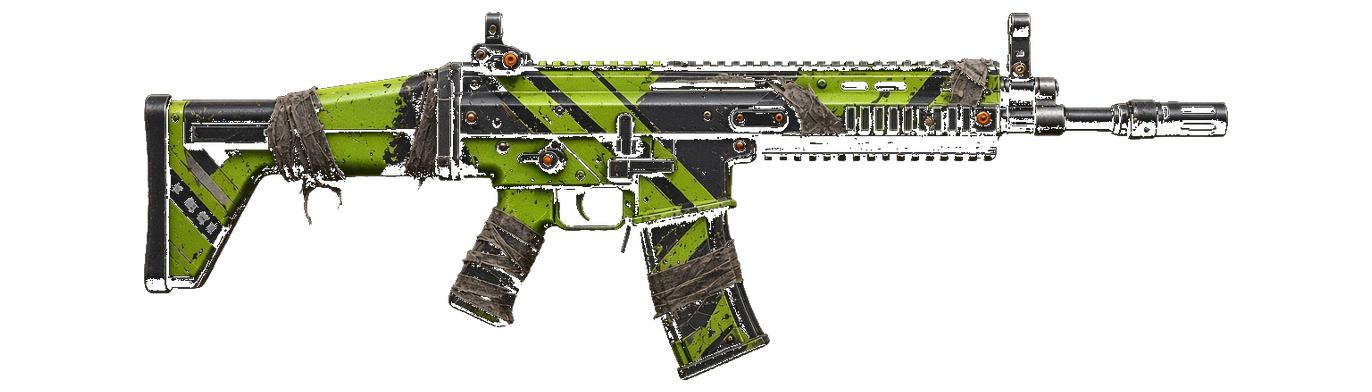
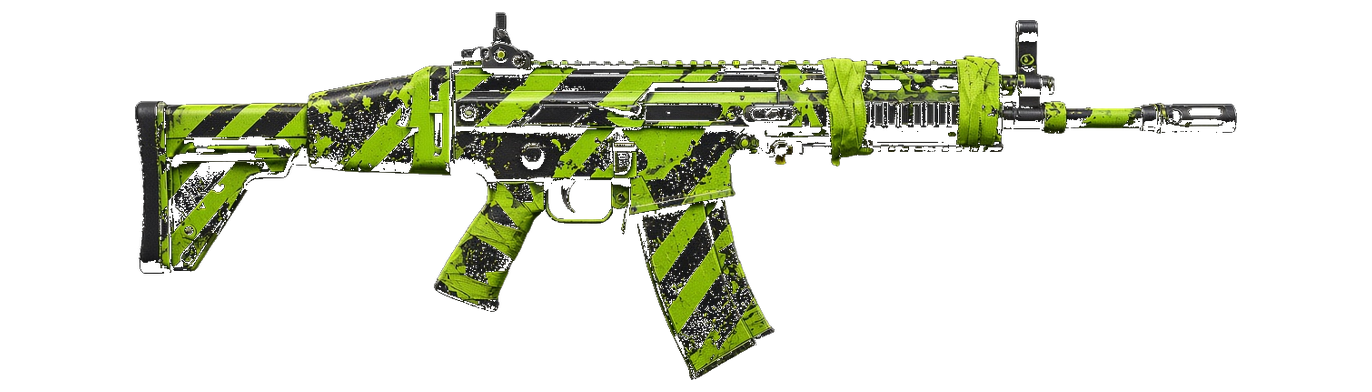
Use distinct Squad ARs per faction with static colored behind-glow.

Changed region(s): [[0.0918, 0.0306, 0.9184, 0.9796]]

diff --git a/src/app/globals.css b/src/app/globals.css
@@ -1840,7 +1840,7 @@ body:has(.tm-sapper-page) {
     background-position: 100% 50%;
   }
 }
-/* B$ фракционные нашивки — тонкий фиолетовый rim, без размытия рисунка */
+/* B$ faction patches: static behind-glow, faction color, no flicker */
 .nick-patch-mark[data-patch-id="bd-faction-legion-ak74"],
 .nick-patch-mark[data-patch-id="bd-faction-orda-m4a1"],
 .nick-patch-mark[data-patch-id="bd-faction-sbord-scar"],
@@ -1848,6 +1848,42 @@ body:has(.tm-sapper-page) {
 .nick-patch-mark[data-patch-id="bd-faction-tabor-m4"],
 .nick-patch-mark[data-patch-id="bd-faction-uley-pkm"] {
   width: 132px;
+  position: relative;
+  isolation: isolate;
+  overflow: visible;
+}
+.nick-patch-mark[data-patch-id="bd-faction-legion-ak74"]::before,
+.nick-patch-mark[data-patch-id="bd-faction-orda-m4a1"]::before,
+.nick-patch-mark[data-patch-id="bd-faction-sbord-scar"]::before,
+.nick-patch-mark[data-patch-id="bd-faction-staya-svd"]::before,
+.nick-patch-mark[data-patch-id="bd-faction-tabor-m4"]::before,
+.nick-patch-mark[data-patch-id="bd-faction-uley-pkm"]::before {
+  content: "";
+  position: absolute;
+  z-index: 0;
+  inset: 6px 10px 5px;
+  border-radius: 50%;
+  pointer-events: none;
+  filter: blur(7px);
+  opacity: 0.55;
+}
+.nick-patch-mark[data-patch-id="bd-faction-legion-ak74"]::before {
+  background: radial-gradient(ellipse, rgba(168, 85, 247, 0.55) 0%, rgba(212, 175, 55, 0.28) 55%, transparent 78%);
+}
+.nick-patch-mark[data-patch-id="bd-faction-orda-m4a1"]::before {
+  background: radial-gradient(ellipse, rgba(239, 68, 68, 0.55) 0%, rgba(249, 115, 22, 0.3) 55%, transparent 78%);
+}
+.nick-patch-mark[data-patch-id="bd-faction-sbord-scar"]::before {
+  background: radial-gradient(ellipse, rgba(163, 230, 53, 0.5) 0%, rgba(132, 204, 22, 0.28) 55%, transparent 78%);
+}
+.nick-patch-mark[data-patch-id="bd-faction-staya-svd"]::before {
+  background: radial-gradient(ellipse, rgba(56, 189, 248, 0.55) 0%, rgba(99, 102, 241, 0.28) 55%, transparent 78%);
+}
+.nick-patch-mark[data-patch-id="bd-faction-tabor-m4"]::before {
+  background: radial-gradient(ellipse, rgba(251, 146, 60, 0.55) 0%, rgba(245, 158, 11, 0.3) 55%, transparent 78%);
+}
+.nick-patch-mark[data-patch-id="bd-faction-uley-pkm"]::before {
+  background: radial-gradient(ellipse, rgba(251, 191, 36, 0.55) 0%, rgba(245, 158, 11, 0.28) 55%, transparent 78%);
 }
 .nick-patch-mark[data-patch-id="bd-faction-legion-ak74"] .nick-patch-mark-art,
 .nick-patch-mark[data-patch-id="bd-faction-orda-m4a1"] .nick-patch-mark-art,
@@ -1855,8 +1891,10 @@ body:has(.tm-sapper-page) {
 .nick-patch-mark[data-patch-id="bd-faction-staya-svd"] .nick-patch-mark-art,
 .nick-patch-mark[data-patch-id="bd-faction-tabor-m4"] .nick-patch-mark-art,
 .nick-patch-mark[data-patch-id="bd-faction-uley-pkm"] .nick-patch-mark-art {
-  filter: drop-shadow(0 0 1.5px rgba(210, 185, 255, 0.55));
-  animation: none;
+  position: relative;
+  z-index: 1;
+  filter: drop-shadow(0 0 1px rgba(255, 255, 255, 0.25));
+  animation: none !important;
   opacity: 1;
 }
 .nick-patch-mark[data-patch-id="bd-faction-legion-ak74"]:hover .nick-patch-mark-art,
@@ -1877,13 +1915,33 @@ body:has(.tm-sapper-page) {
 .nick-patch-mark[data-patch-id="bd-faction-uley-pkm"]:hover .nick-patch-mark-art,
 .nick-patch-mark[data-patch-id="bd-faction-uley-pkm"]:focus-visible .nick-patch-mark-art,
 .nick-patch-mark[data-patch-id="bd-faction-uley-pkm"].is-active .nick-patch-mark-art {
-  animation: none;
+  animation: none !important;
   transform: scaleX(-1) scale(1.06);
-  filter:
-    drop-shadow(0 0 2px rgba(230, 210, 255, 0.7))
-    drop-shadow(0 0 5px rgba(170, 130, 230, 0.28));
+  filter: drop-shadow(0 0 1.5px rgba(255, 255, 255, 0.35));
   opacity: 1;
 }
+.nick-patch-mark[data-patch-id="bd-faction-legion-ak74"]:hover::before,
+.nick-patch-mark[data-patch-id="bd-faction-legion-ak74"]:focus-visible::before,
+.nick-patch-mark[data-patch-id="bd-faction-legion-ak74"].is-active::before,
+.nick-patch-mark[data-patch-id="bd-faction-orda-m4a1"]:hover::before,
+.nick-patch-mark[data-patch-id="bd-faction-orda-m4a1"]:focus-visible::before,
+.nick-patch-mark[data-patch-id="bd-faction-orda-m4a1"].is-active::before,
+.nick-patch-mark[data-patch-id="bd-faction-sbord-scar"]:hover::before,
+.nick-patch-mark[data-patch-id="bd-faction-sbord-scar"]:focus-visible::before,
+.nick-patch-mark[data-patch-id="bd-faction-sbord-scar"].is-active::before,
+.nick-patch-mark[data-patch-id="bd-faction-staya-svd"]:hover::before,
+.nick-patch-mark[data-patch-id="bd-faction-staya-svd"]:focus-visible::before,
+.nick-patch-mark[data-patch-id="bd-faction-staya-svd"].is-active::before,
+.nick-patch-mark[data-patch-id="bd-faction-tabor-m4"]:hover::before,
+.nick-patch-mark[data-patch-id="bd-faction-tabor-m4"]:focus-visible::before,
+.nick-patch-mark[data-patch-id="bd-faction-tabor-m4"].is-active::before,
+.nick-patch-mark[data-patch-id="bd-faction-uley-pkm"]:hover::before,
+.nick-patch-mark[data-patch-id="bd-faction-uley-pkm"]:focus-visible::before,
+.nick-patch-mark[data-patch-id="bd-faction-uley-pkm"].is-active::before {
+  opacity: 0.72;
+  transform: scale(1.04);
+}
+
 @media (prefers-reduced-motion: reduce) {
   .public-rating-nick-label.is-metallic-gold::after {
     animation: none;

diff --git a/src/app/profile-v2.css b/src/app/profile-v2.css
@@ -1378,7 +1378,7 @@ body.has-profile-bg .shell:has(.profile-page) {
   background-repeat: no-repeat;
   filter: drop-shadow(0 0 6px rgba(255, 180, 40, 0.55));
 }
-/* B$ фракции — тонкий rim, без «мыльного» bloom */
+/* B$ faction tiles: static behind-glow in skin color */
 .profile-patch-tile[data-patch-id="bd-faction-legion-ak74"],
 .profile-patch-tile[data-patch-id="bd-faction-orda-m4a1"],
 .profile-patch-tile[data-patch-id="bd-faction-sbord-scar"],
@@ -1386,6 +1386,43 @@ body.has-profile-bg .shell:has(.profile-page) {
 .profile-patch-tile[data-patch-id="bd-faction-tabor-m4"],
 .profile-patch-tile[data-patch-id="bd-faction-uley-pkm"] {
   background: radial-gradient(circle at 50% 30%, rgba(28, 18, 42, 0.95), rgba(8, 6, 14, 0.98));
+  isolation: isolate;
+}
+.profile-patch-tile[data-patch-id="bd-faction-legion-ak74"]::before,
+.profile-patch-tile[data-patch-id="bd-faction-orda-m4a1"]::before,
+.profile-patch-tile[data-patch-id="bd-faction-sbord-scar"]::before,
+.profile-patch-tile[data-patch-id="bd-faction-staya-svd"]::before,
+.profile-patch-tile[data-patch-id="bd-faction-tabor-m4"]::before,
+.profile-patch-tile[data-patch-id="bd-faction-uley-pkm"]::before {
+  content: "";
+  position: absolute;
+  z-index: 0;
+  left: 12%;
+  right: 12%;
+  top: 10%;
+  bottom: 34%;
+  border-radius: 50%;
+  pointer-events: none;
+  filter: blur(14px);
+  opacity: 0.5;
+}
+.profile-patch-tile[data-patch-id="bd-faction-legion-ak74"]::before {
+  background: radial-gradient(ellipse, rgba(168, 85, 247, 0.7), rgba(212, 175, 55, 0.25), transparent 70%);
+}
+.profile-patch-tile[data-patch-id="bd-faction-orda-m4a1"]::before {
+  background: radial-gradient(ellipse, rgba(239, 68, 68, 0.7), rgba(249, 115, 22, 0.28), transparent 70%);
+}
+.profile-patch-tile[data-patch-id="bd-faction-sbord-scar"]::before {
+  background: radial-gradient(ellipse, rgba(163, 230, 53, 0.65), rgba(132, 204, 22, 0.25), transparent 70%);
+}
+.profile-patch-tile[data-patch-id="bd-faction-staya-svd"]::before {
+  background: radial-gradient(ellipse, rgba(56, 189, 248, 0.7), rgba(99, 102, 241, 0.25), transparent 70%);
+}
+.profile-patch-tile[data-patch-id="bd-faction-tabor-m4"]::before {
+  background: radial-gradient(ellipse, rgba(251, 146, 60, 0.7), rgba(245, 158, 11, 0.28), transparent 70%);
+}
+.profile-patch-tile[data-patch-id="bd-faction-uley-pkm"]::before {
+  background: radial-gradient(ellipse, rgba(251, 191, 36, 0.7), rgba(245, 158, 11, 0.25), transparent 70%);
 }
 .profile-patch-tile[data-patch-id="bd-faction-legion-ak74"] .profile-patch-tile-art,
 .profile-patch-tile[data-patch-id="bd-faction-orda-m4a1"] .profile-patch-tile-art,
@@ -1393,7 +1430,9 @@ body.has-profile-bg .shell:has(.profile-page) {
 .profile-patch-tile[data-patch-id="bd-faction-staya-svd"] .profile-patch-tile-art,
 .profile-patch-tile[data-patch-id="bd-faction-tabor-m4"] .profile-patch-tile-art,
 .profile-patch-tile[data-patch-id="bd-faction-uley-pkm"] .profile-patch-tile-art {
-  filter: drop-shadow(0 0 1.5px rgba(210, 185, 255, 0.5));
+  z-index: 1;
+  filter: none;
+  animation: none !important;
 }
 .profile-patch-tile[data-patch-id="bd-faction-legion-ak74"]:hover .profile-patch-tile-art,
 .profile-patch-tile[data-patch-id="bd-faction-legion-ak74"]:focus-visible .profile-patch-tile-art,
@@ -1414,10 +1453,10 @@ body.has-profile-bg .shell:has(.profile-page) {
 .profile-patch-tile[data-patch-id="bd-faction-uley-pkm"]:focus-visible .profile-patch-tile-art,
 .profile-patch-tile[data-patch-id="bd-faction-uley-pkm"].is-selected .profile-patch-tile-art {
   transform: scaleX(-1) scale(1.04);
-  filter:
-    drop-shadow(0 0 2px rgba(230, 210, 255, 0.65))
-    drop-shadow(0 0 5px rgba(170, 130, 230, 0.25));
+  filter: none;
+  animation: none !important;
 }
+
 .profile-patch-tile .profile-bg-tile-label {
   z-index: 1;
 }

diff --git a/src/lib/profilePatches.ts b/src/lib/profilePatches.ts
@@ -68,19 +68,19 @@ export const PROFILE_PATCH_OPTIONS = [
     tip: "Т-62 «Неоновый урожай» · Награда за 100 уничтоженных единиц техники на паблике «Фруктовый сад»",
     gate: "public-vehicles-100" as const,
   },
-  // Превью B$ (Черничный доллар) — только SCAR, цвета фракций; размер как Orange Phantom
+  // Превью B$ — разные штурмовые Squad, цвета фракций; холст как Orange Phantom
   {
     id: "bd-faction-legion-ak74",
-    file: "bd-faction-legion-scar.png",
-    label: "SCAR «Орёл Легиона»",
-    tip: "SCAR «Орёл Легиона»",
+    file: "bd-faction-legion-m4.png",
+    label: "M4A1 «Орёл Легиона»",
+    tip: "M4A1 «Орёл Легиона»",
     gate: "creator" as const,
   },
   {
     id: "bd-faction-orda-m4a1",
-    file: "bd-faction-orda-scar.png",
-    label: "SCAR «Клык Орды»",
-    tip: "SCAR «Клык Орды»",
+    file: "bd-faction-orda-ak74.png",
+    label: "АК-74 «Клык Орды»",
+    tip: "АК-74 «Клык Орды»",
     gate: "creator" as const,
   },
   {
@@ -92,23 +92,23 @@ export const PROFILE_PATCH_OPTIONS = [
   },
   {
     id: "bd-faction-staya-svd",
-    file: "bd-faction-staya-scar.png",
-    label: "SCAR «Лунная Стая»",
-    tip: "SCAR «Лунная Стая»",
+    file: "bd-faction-staya-aug.png",
+    label: "AUG «Лунная Стая»",
+    tip: "AUG «Лунная Стая»",
     gate: "creator" as const,
   },
   {
     id: "bd-faction-tabor-m4",
-    file: "bd-faction-tabor-scar.png",
-    label: "SCAR «Золото Табора»",
-    tip: "SCAR «Золото Табора»",
+    file: "bd-faction-tabor-akm.png",
+    label: "AKM «Золото Табора»",
+    tip: "AKM «Золото Табора»",
     gate: "creator" as const,
   },
   {
     id: "bd-faction-uley-pkm",
-    file: "bd-faction-uley-scar.png",
-    label: "SCAR «Янтарь Улья»",
-    tip: "SCAR «Янтарь Улья»",
+    file: "bd-faction-uley-g36.png",
+    label: "G36 «Янтарь Улья»",
+    tip: "G36 «Янтарь Улья»",
     gate: "creator" as const,
   },
 ] as const;
@@ -165,7 +165,7 @@ export function profilePatchUrl(
       : id === "creator-event-scar-lemon" || id === "creator-event-saiga-apple"
         ? "?v=fs6"
         : id.startsWith("bd-faction-")
-          ? "?v=bd3"
+          ? "?v=bd4"
           : "";
   return `/bp-assets/${opt.file}${bust}`;
 }
